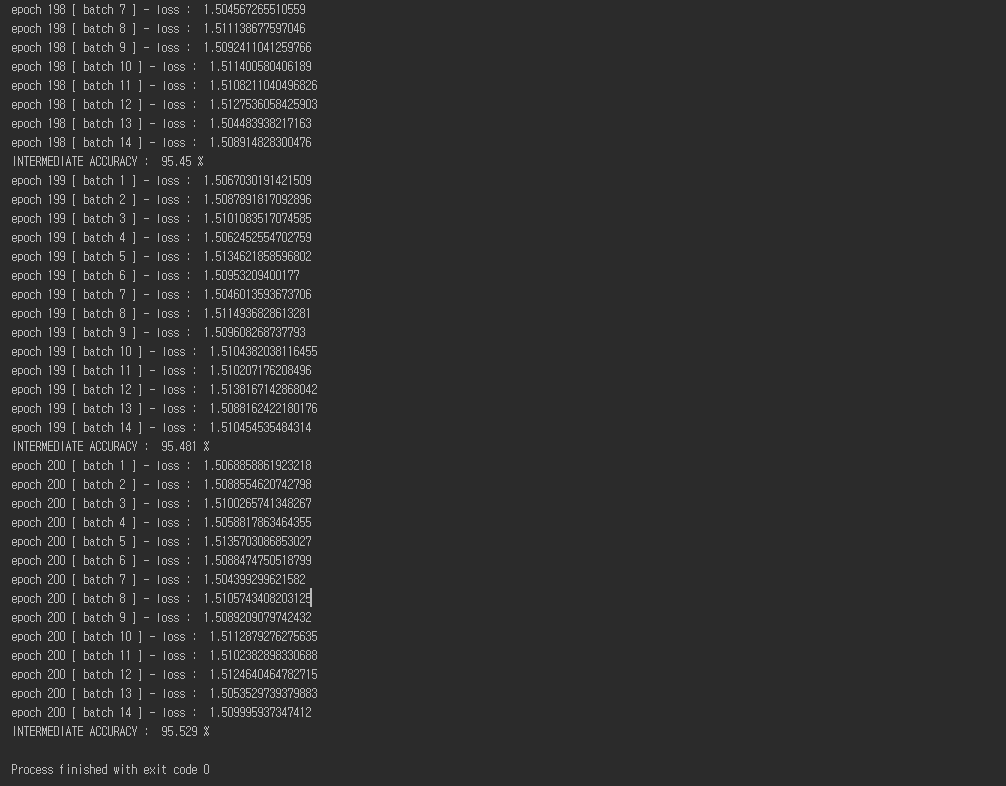
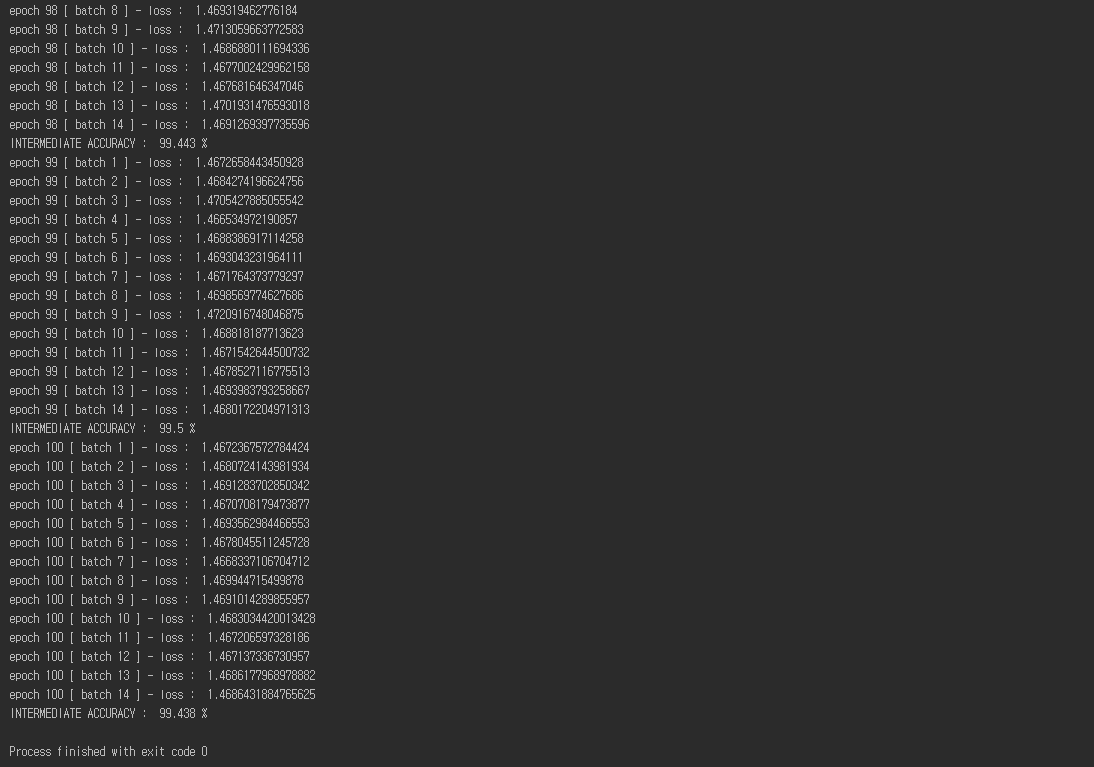
added dropout

Changed region(s): [[0.0, 0.0, 0.3082, 0.9896]]

diff --git a/DNN/dnn.py b/DNN/dnn.py
@@ -6,13 +6,13 @@ import torch.optim as optim
 class DNN(nn.Module):
     def __init__(self, lr):
         super(DNN, self).__init__()
-        self.layer1 = nn.Linear(784, 1024, bias=True)
+        self.layer1 = nn.Sequential(nn.Linear(784, 1024, bias=True), nn.Dropout(0.3))
         self.bn1 = nn.BatchNorm1d(1024)
-        self.layer2 = nn.Linear(1024, 1200, bias=True)
+        self.layer2 = nn.Sequential(nn.Linear(1024, 1200, bias=True), nn.Dropout(0.3))
         self.bn2 = nn.BatchNorm1d(1200)
-        self.layer3 = nn.Linear(1200, 1024, bias=True)
+        self.layer3 = nn.Sequential(nn.Linear(1200, 1024, bias=True), nn.Dropout(0.3))
         self.bn3 = nn.BatchNorm1d(1024)
-        self.layer4 = nn.Linear(1024,512, bias=True)
+        self.layer4 = nn.Sequential(nn.Linear(1024,512, bias=True), nn.Dropout(0.3))
         self.bn4 = nn.BatchNorm1d(512)
         self.out = nn.Linear(512, 10)
 
@@ -22,9 +22,9 @@ class DNN(nn.Module):
         self.to(self.device)
 
     def forward(self, data):
-        layer1 = self.bn1(self.layer1(data))
-        layer2 = self.bn2(self.layer2(layer1))
-        layer3 = self.bn3(self.layer3(layer2))
-        layer4 = self.bn4(self.layer4(layer3))
+        layer1 = self.bn1(F.relu(self.layer1(data)))
+        layer2 = self.bn2(F.relu(self.layer2(layer1)))
+        layer3 = self.bn3(F.relu(self.layer3(layer2)))
+        layer4 = self.bn4(F.relu(self.layer4(layer3)))
         out = self.out(layer4)
         return F.softmax(out, dim=1)

diff --git a/DNN/main.py b/DNN/main.py
@@ -6,8 +6,8 @@ from DNN.learner import Learner
 if __name__ == '__main__':
     DATA_DIR = 'D:/rawDataFiles/digit_train.csv'
 
-    LEARNING_RATE = 1e-4
-    EPOCHS = 200
+    LEARNING_RATE = 3e-5
+    EPOCHS = 100
     BATCH_SIZE = 3000
 
 
